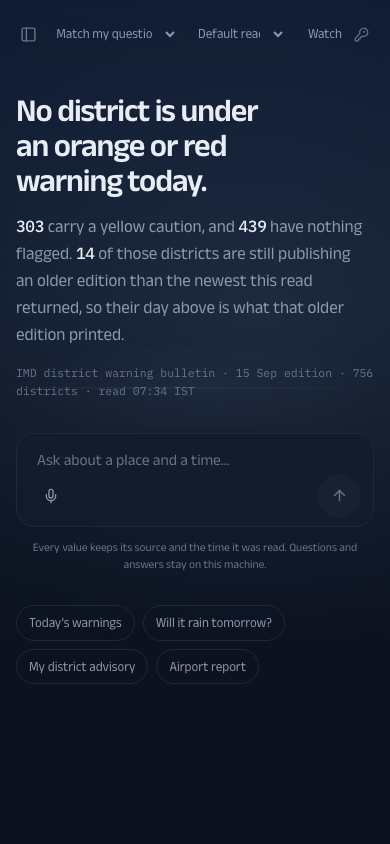
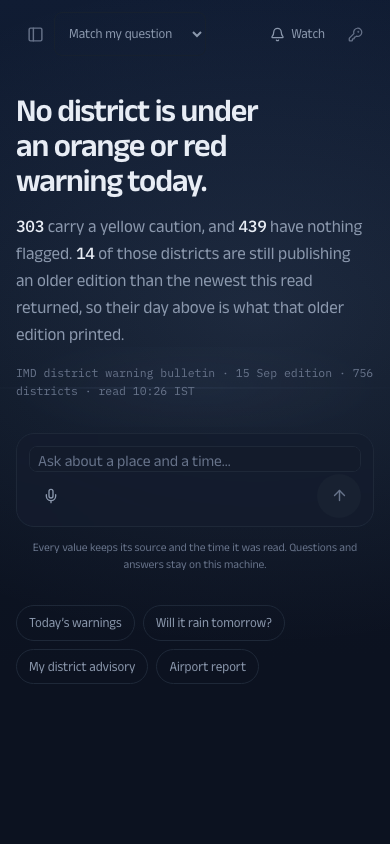
Sentence case everywhere, and the phone bar stops truncating
A self-review pass over the surfaces the last commit repointed.

The tracked-out all-caps label is the surest tell of a machine-made page, and it had survived inside the
module surfaces after the conversation dropped it: section headings ("WHAT THIS SUITE CAN ANSWER"), every
dashboard card head, every table column header, and the chart engine's own axis and matrix labels. All of
them are sentence case now. Size and weight already carry the hierarchy, so nothing was lost.

The table rule needed a raised specificity rather than a new declaration: .module-table thead th and a bare
.g th have the same specificity, so source order decided it, and the module stylesheet won.

Also: on a phone the bar was showing two selects truncated mid-word ("Match my questio", "Default rea").
The reading position is a refinement, so it leaves the phone bar and the language keeps a width that fits.
The two ways out of a surface are a right-aligned pair beside it rather than floating over the column.

Evidence: tsc clean, 57 files / 317 checks, verify_all.py 20 steps 0 failed. Captures for settings,
advisories and the phone refreshed in docs/images/mature.

diff --git a/frontend/src/gpt/gpt.css b/frontend/src/gpt/gpt.css
@@ -512,3 +512,33 @@ html, body { background: var(--g-bg); }
 .g .dash-kpi-value { display: flex; align-items: baseline; gap: 6px; flex-wrap: wrap; min-width: 0; }
 .g .dash-kpis { align-items: start; }
 .g .dash-card { padding: var(--g-4); }
+
+/* A tracked-out all-caps label above a heading is one of the surest tells of a machine-made page, and it
+   survived inside the module surfaces after the conversation had dropped it. Sentence case everywhere: a
+   section heading is a heading, and a column header is a word, not a sign. Size and weight already carry
+   the hierarchy, so nothing is lost by letting the words read normally. */
+.g .eyebrow,
+.g .module-section > h2, .g .module-section > h3,
+.g .dash-card-head h2,
+.g th,
+.g .viz-matrix-head, .g .viz-matrix-corner, .g .viz-unit,
+.g .viz-card-family, .g .viz-card-scope {
+  text-transform: none;
+  letter-spacing: 0;
+}
+.g .module-section > h2, .g .module-section > h3, .g .dash-card-head h2 {
+  font-size: 13.5px; font-weight: 600; color: var(--g-mist);
+}
+.g .module-table thead th, .g th {
+  text-transform: none; letter-spacing: 0; font-size: 12px; font-weight: 600; color: var(--g-mist-2);
+}
+
+/* The two ways out of a surface belong beside the surface, not floating over the column's shoulder. */
+.g-sheet-actions { display: flex; justify-content: flex-end; gap: var(--g-2); padding-top: var(--g-4); }
+
+@media (max-width: 900px) {
+  /* The reading position is a refinement; on a phone the bar keeps the language and the rest moves to the
+     rail, rather than truncating two controls mid-word. */
+  .g-top select[aria-label='Reading as'] { display: none; }
+  .g-top select.g-tool { max-width: 9.5rem; }
+}

diff --git a/frontend/src/gpt/Workspace.tsx b/frontend/src/gpt/Workspace.tsx
@@ -291,7 +291,7 @@ export function Workspace({
 
             {sheet ? (
               <section className="g-turn g-in" data-surface={sheet.id}>
-                <div className="g-meta" style={{ justifyContent: 'flex-end' }}>
+                <div className="g-sheet-actions">
                   <span className="g-chips">
                     <button type="button" className="g-chip" onClick={() => onOpen('assistant')}>
                       <ArrowLeft size={13} aria-hidden="true" /> Back to the conversation
